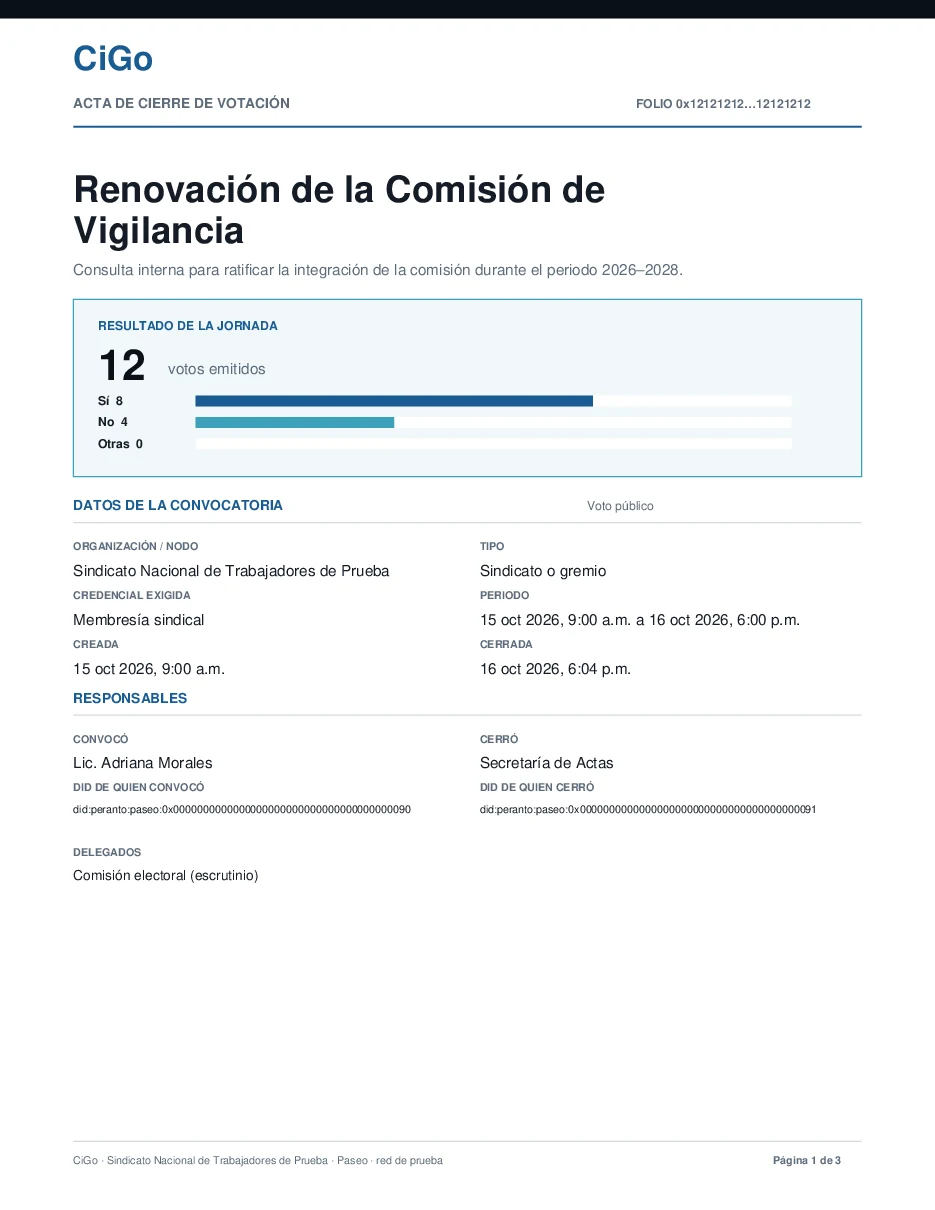
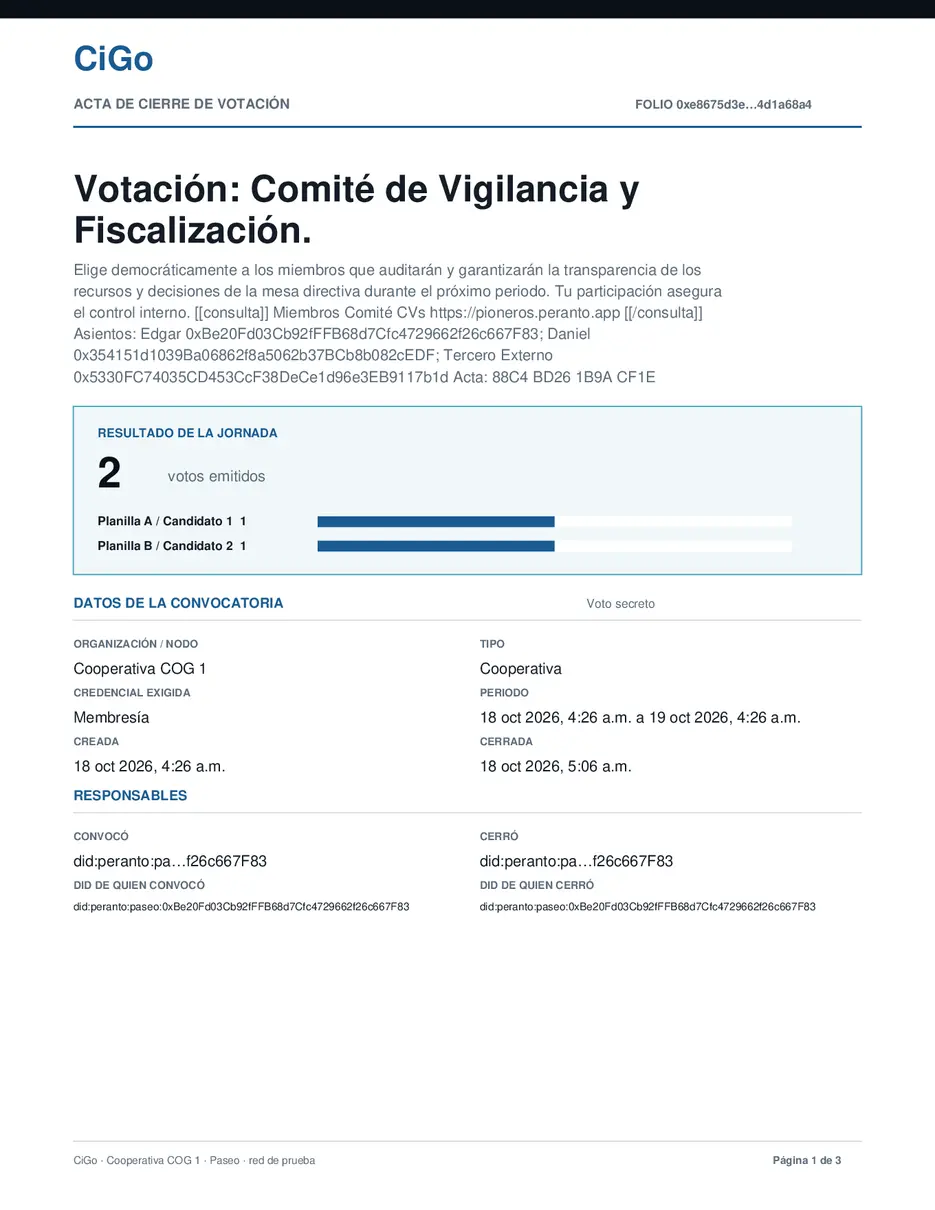
Acta de cierre real: Comité de Vigilancia y Fiscalización de la cooperativa de prueba

diff --git a/index.html b/index.html
@@ -286,12 +286,12 @@
           </article>
           <article class="product-proof">
             <div class="proof-media report">
-              <img src="media/acta-votacion-portada.webp" alt="Primera página del acta de cierre de una votación sindical de prueba" loading="lazy" />
+              <img src="media/acta-votacion-portada.webp" alt="Primera página del acta de cierre de la votación del Comité de Vigilancia y Fiscalización de una cooperativa, generada por CiGo" loading="lazy" />
             </div>
             <div class="proof-copy">
               <p class="kicker">3 · Cierre</p>
               <h3>Descargar el acta de prueba.</h3>
-              <p>El documento reúne resultado, periodo, responsables, folio, transacciones y participación. Esta muestra usa datos ficticios y una red de prueba.</p>
+              <p>El documento reúne resultado, periodo, responsables, folio, transacciones y participación. Esta muestra es la elección del Comité de Vigilancia y Fiscalización de una cooperativa de prueba, operada en la red Paseo.</p>
               <a class="btn solid proof-download" href="media/acta-votacion-prueba.pdf" download>Descargar acta en PDF</a>
             </div>
           </article>

diff --git a/en/index.html b/en/index.html
@@ -286,12 +286,12 @@
           </article>
           <article class="product-proof">
             <div class="proof-media report">
-              <img src="../media/acta-votacion-portada.webp" alt="First page of a sample union vote closing record" loading="lazy" />
+              <img src="../media/acta-votacion-portada.webp" alt="First page of the closing record for a cooperative's Oversight and Audit Committee election, generated by CiGo" loading="lazy" />
             </div>
             <div class="proof-copy">
               <p class="kicker">3 · Closing</p>
               <h3>Download the sample record.</h3>
-              <p>The document contains the result, period, responsible parties, reference, transactions and participation. This sample uses fictional data on a test network.</p>
+              <p>The document contains the result, period, responsible parties, reference, transactions and participation. This sample is the Oversight and Audit Committee election of a test cooperative, run on the Paseo test network.</p>
               <a class="btn solid proof-download" href="../media/acta-votacion-prueba.pdf" download>Download PDF record</a>
             </div>
           </article>
